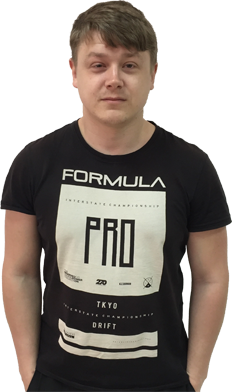
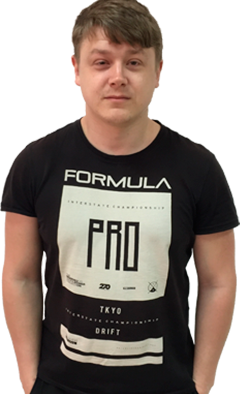
Replace photos

diff --git a/wp-content/themes/twentyseventeen/css/it-center.restyling.css b/wp-content/themes/twentyseventeen/css/it-center.restyling.css
@@ -436,6 +436,11 @@ div.darken-photo > .darken-background > h4 {
     max-height: 40vw;
     min-height: 40vw;
     overflow: hidden;
+    z-index: 5;
+}
+
+.course-auditory-image>img {
+    z-index: -1;
 }
 
 .auditory-description {
@@ -448,7 +453,7 @@ div.darken-photo > .darken-background > h4 {
     width: calc(100%);
     text-align: center;
     background: rgba(255, 255, 255, 0.8);
-    z-index: 5;
+    z-index: 1;
     text-transform: uppercase;
     display: flex;
     flex-direction: column;
